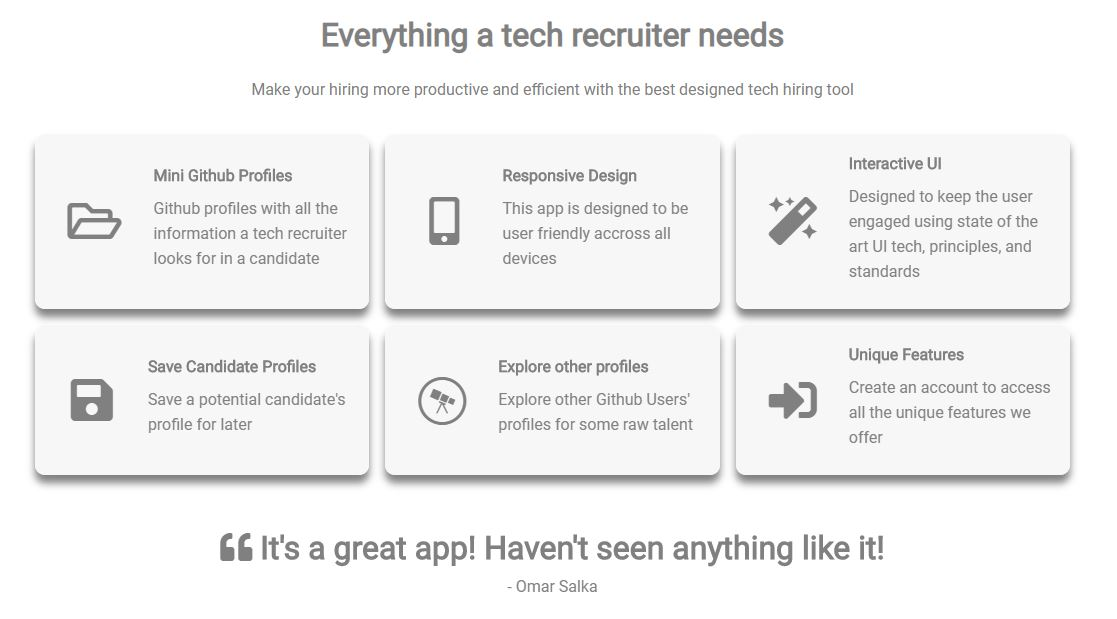
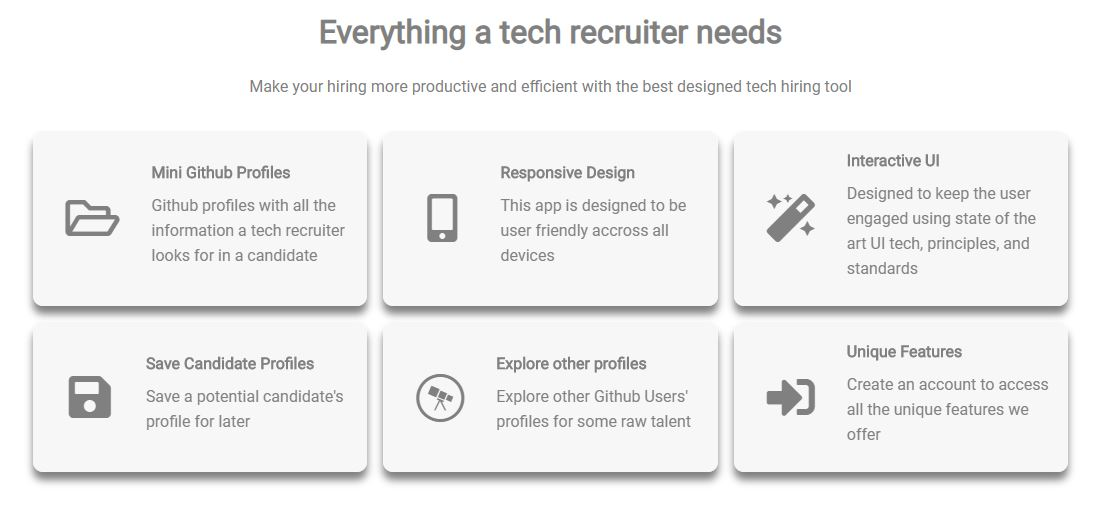
minor changes

diff --git a/client/src/components/gitApp/layout/About.js b/client/src/components/gitApp/layout/About.js
@@ -10,56 +10,69 @@ const FadeInDown = styled.div`
 
 const About = () => {
   return (
-    <div id='about' className='container'>
-      <Features />
-      <hr className='divider' />
-      <FadeInDown>
-        <p className='indent-features'>
-          <i className='fas fa-caret-right'></i> Save the time and pain of
-          searching candidates' profiles and repos. With this app, you have all
-          the info you need
+    <div id='about'>
+      <div className='container'>
+        <Features />
+        {/* <hr className='divider' /> */}
+        <div className='features-description'>
+          <FadeInDown>
+            <div className='feature-block'>
+              <i className='fas fa-caret-right'></i>&nbsp;
+              <p className='indent-features' style={{ marginTop: '2rem' }}>
+                Save the time and pain of searching candidates' profiles and
+                repos. With this app, you have all the info you need
+              </p>
+            </div>
+            <div className='feature-block'>
+              <i className='fas fa-caret-right'></i>&nbsp;
+              <p className='indent-features'>
+                Explore custom-made profiles of github users with just the
+                information you need to make your hiring decision
+              </p>
+            </div>
+            <div className='feature-block'>
+              <i className='fas fa-caret-right'></i>&nbsp;&nbsp;
+              <p className='indent-features'>
+                Clone a prospect's repo on your local machine with the provided
+                git command
+              </p>
+            </div>
+            <div className='feature-block'>
+              <i className='fas fa-caret-right'></i>&nbsp;
+              <p className='indent-features'>
+                Add the potential condidate to your directory, to access later.
+              </p>
+            </div>
+            <div className='feature-block'>
+              <i className='fas fa-caret-right'></i>&nbsp;
+              <p className='indent-features'>
+                Add notes regarding your prospects
+              </p>
+            </div>
+            <div className='feature-block'>
+              <i className='fas fa-caret-right'></i>&nbsp;
+              <p className='indent-features'>
+                Revisit your directory with all the saved profiles to compare
+                github profiles
+              </p>
+            </div>
+            <div className='feature-block'>
+              <i className='fas fa-caret-right'></i>&nbsp;
+              <p className='indent-features'>
+                In case of a no-match, you can delete a candidate's profile from
+                your directory
+              </p>
+            </div>
+          </FadeInDown>
+        </div>
+        <Contact />
+        <p>
+          <strong>App:</strong>v. 1.0.0
         </p>
-        <p className='indent-features'>
-          <i className='fas fa-caret-right'></i> Explore custom-made profiles of
-          github users with just the information you need to make your hiring
-          decision
+        <p>
+          <strong>Author:</strong> Omar Salka
         </p>
-        <p className='indent-features'>
-          <i className='fas fa-caret-right'></i> Clone a prospect's repo on your
-          local machine with the provided git command
-        </p>
-        <p className='indent-features'>
-          <i className='fas fa-caret-right'></i> Add the potential condidate to
-          your directory, to access later.
-        </p>
-        <p className='indent-features'>
-          <i className='fas fa-caret-right'></i> Add notes regarding your
-          prospects
-        </p>
-        <p className='indent-features'>
-          <i className='fas fa-caret-right'></i> Revisit your directory with all
-          the saved profiles to compare github profiles
-        </p>
-        <p className='indent-features'>
-          <i className='fas fa-caret-right'></i> In case of a no-match, you can
-          delete a candidate's profile from your directory
-        </p>
-        <div
-          style={{
-            display: 'flex',
-            justifyContent: 'center',
-            marginTop: '4rem',
-            marginBottom: '4rem'
-          }}
-        ></div>
-      </FadeInDown>
-      <Contact />
-      <p>
-        <strong>App:</strong>v. 1.0.0
-      </p>
-      <p>
-        <strong>Author:</strong> Omar Salka
-      </p>
+      </div>
     </div>
   );
 };

diff --git a/client/src/components/gitApp/about/Features.js b/client/src/components/gitApp/about/Features.js
@@ -91,20 +91,6 @@ const Features = () => {
               </div>
             </div>
           </div>
-          <div style={{ margin: '3rem 0' }}>
-            <ScrollAnimation
-              animateIn='fadeIn'
-              animateOut='fadeOut'
-              delay={100}
-              animateOnce={true}
-            >
-              <h1>
-                <i className='fas fa-quote-left'></i> It's a great app! Haven't
-                seen anything like it!
-              </h1>
-              <p style={{ textAlign: 'center' }}>- Omar Salka</p>
-            </ScrollAnimation>
-          </div>
         </ScrollAnimation>
       </div>
     </div>

diff --git a/client/src/components/landing/layout/LandingSection2.js b/client/src/components/landing/layout/LandingSection2.js
@@ -99,11 +99,6 @@ const LandingSection2 = () => {
               delay={100}
               animateOnce={true}
             >
-              <h1>
-                <i className='fas fa-quote-left'></i> It's a great app! Haven't
-                seen anything like it!
-              </h1>
-              <p style={{ textAlign: 'center' }}>- Omar Salka</p>
               <h2 style={{ margin: '1rem 0rem' }}>
                 So what are you waiting for?
               </h2>

diff --git a/client/src/components/gitApp/about/Contact.js b/client/src/components/gitApp/about/Contact.js
@@ -4,7 +4,7 @@ import 'animate.css/animate.min.css';
 const Contact = () => {
   return (
     <div id='section3' className='about-contact'>
-      <div className='section3ContactUs'>
+      <div className='section3ContactUs' style={{ margin: '0rem' }}>
         <div className='contactItem'>
           <h2>Contact Us</h2>
           <hr />

diff --git a/client/src/App.css b/client/src/App.css
@@ -575,9 +575,20 @@ input {
 }
 
 #about .indent-features {
+  display: inline;
   font-size: 1.5rem;
+}
+
+#about .features-description {
+  margin: 2rem 0rem;
+}
+
+#about .feature-block {
+  margin: 1rem;
   text-align: left;
-  margin: 0.5rem 0rem;
+}
+#about .feature-block i {
+  font-size: 1.5rem;
 }
 
 .about-features {
